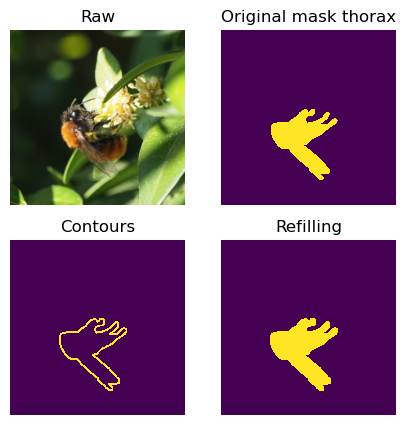
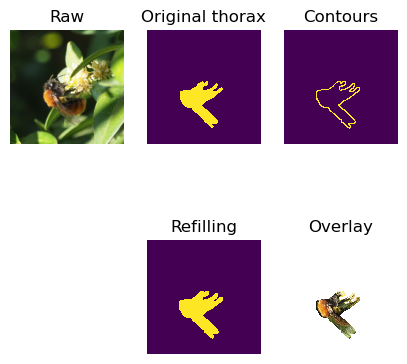
Crop + mask images and store them to separate folders.

diff --git a/beexplainable/preprocessing/parsers_deprecated.py b/beexplainable/preprocessing/parsers_deprecated.py
@@ -30,22 +30,36 @@ def parse_image(file_id: str, img_lookup, img_w: int, img_h: int, root: str = '.
 
     return img
 
-def parse_image_bbox(img_dict, bbox_dict, src, target):
-    count = 0
-    for file_id in img_dict:
-        filename = img_dict[file_id]
-        img = tf.io.read_file(src + filename)
-        img = tf.io.decode_jpeg(img, channels=3)
-        bbox = bbox_dict[file_id]
-        img = tf.image.crop_to_bounding_box(img, offset_height=tf.cast(bbox[1], tf.int32),
-                                                 offset_width=tf.cast(bbox[0], tf.int32),
-                                                 target_height=tf.cast(bbox[3], tf.int32),
-                                                 target_width=tf.cast(bbox[2], tf.int32))
+def parse_image_bbox(file_id: str, img_lookup, bbox_lookup, img_w: int, img_h: int, root: str = './'):
+    """Read image file, cropping it to the bounding box and resize it to `(img_w, img_h, 3)`.
 
-        tf.keras.utils.save_img(target + filename, img)
-        count += 1
-        if count > 5: break
+    :param file_id: ID of the image to read.
+    :type file_id: str
+    :param img_lookup: Lookup table assigning file ID to file name.
+    :type img_lookup: tf.lookup.StaticHashTable
+    :param bbox_lookup: Lookup table assigning filename to BBox coordinates (xmin, ymin, width, height).
+    :type bbox_lookup: tf.lookup.DenseHashTable
+    :param img_w: Image width after resizing.
+    :type img_w: int
+    :param img_h: Image height after resizing.
+    :type img_h: int
+    :param root: Root path where the image is stored. Defaults to current folder `./`.
+    :type root: str
+    :return: Decoded image.
+    :rtype: Tensor
+    """
 
+    # Retrieve file name from file ID
+    filename = img_lookup.lookup(file_id)
+    img = tf.io.read_file(root + filename)
+    img = tf.io.decode_jpeg(img, channels=3)
+    bbox = bbox_lookup.lookup(file_id) # get coords. from filename
+    # Note: the cropping function needs bbox coords as integers in order to manipulate the image on pixel level (also integers)
+    img = tf.image.crop_to_bounding_box(img, offset_height = tf.cast(bbox[1], tf.int32), offset_width = tf.cast(bbox[0], tf.int32),
+                                             target_height = tf.cast(bbox[3], tf.int32), target_width = tf.cast(bbox[2], tf.int32))
+    img = tf.image.resize(img, [img_w, img_h])
+
+    return img
 
 def overlay_mask(img, mask, background_col: List[int] = np.array([255, 255, 255], dtype = np.uint8)):
     """Overlay binary mask over original image. Pixels not belonging to mask are colored differently.

diff --git a/scripts/test_contours.py b/scripts/test_contours.py
@@ -6,11 +6,13 @@ sys.path.insert(1, '../beexplainable')
 sys.path.insert(2, '../label_studio_converter')
 
 import numpy as np
+import tensorflow as tf
 from PIL import Image
 import cv2 as cv
 import matplotlib.pyplot as plt
 from beexplainable.utils import metafile_readers as mr
 from beexplainable.utils import annot_computers as ac
+from beexplainable.preprocessing import parsers_deprecated as ps
 
 # Pick a file example, and part ID
 file_id, part_id = '500', '2'
@@ -50,8 +52,12 @@ edges_cv = cv.drawContours(blank, # destination image (NOT source bin_mask!)
 refilled = cv.drawContours(blank, contours, -1, color=(255, 255, 255),
                            thickness=-1)//255 # neg. thickness to fill the shape
 
+# Overlay mask on original image and cover up background pixels
+overlay = np.copy(img)
+overlay[ refilled == 0 ] = np.array([255, 255, 255], dtype = np.uint8)
+
 # Plot results
-rows, cols = 2, 2
+rows, cols = 2, 3
 plt.figure(figsize = (5, 5))
 plt.subplot(rows, cols, 1)
 plt.imshow(img)
@@ -60,7 +66,7 @@ plt.axis('off')
 
 plt.subplot(rows, cols, 2)
 plt.imshow(bin_mask, interpolation='none')
-plt.title('Original mask thorax')
+plt.title('Original thorax')
 plt.axis('off')
 
 plt.subplot(rows, cols, 3)
@@ -68,9 +74,16 @@ plt.imshow(edges_cv, interpolation='none')
 plt.title('Contours')
 plt.axis('off')
 
-plt.subplot(rows, cols, 4)
+plt.subplot(rows, cols, 5)
 plt.imshow(refilled, interpolation='none')
 plt.title('Refilling')
+plt.axis('off')
+
+plt.subplot(rows, cols, 6)
+swap_bin = 255*(tf.ones_like(refilled)-refilled)
+swap_back = tf.stack((swap_bin,)*3, axis = -1)
+plt.imshow(img * tf.stack((refilled,) * 3, axis = -1) + swap_back, interpolation='none')
+plt.title('Overlay')
 plt.axis('off')
 
 plt.savefig('../figures/masks_bboxes/Edges_' + indiv_name + '.png', bbox_inches='tight')

diff --git a/scripts/crop_mask_images.py b/scripts/crop_mask_images.py
@@ -1,0 +1,35 @@
+"""Script to generate additional datasets of bbox-cropped images, masked ones and both"""
+
+import sys
+# Insert libraries paths from 1 on; 0 is the script path
+sys.path.insert(1, '../beexplainable')
+sys.path.insert(2, '../label_studio_converter')
+
+import numpy as np
+from beexplainable.utils import annot_computers as ac # an extra prefix beexplainable. may be needed
+from beexplainable.utils import metafile_readers as mr
+from beexplainable.modelling import classifiers as cls
+from beexplainable.preprocessing import parsers as ps
+
+# Metafile paths
+BEES_PATH = '../data/data_lstudio/Bees_Christian/'
+BEES_PATH_BBOX = '../data/data_lstudio/Bees_Christian_bbox/'
+IMAGES_PATH = './beexplainable/metafiles/images.txt'
+W_H_PATH = './beexplainable/metafiles/widths_heights.txt'
+IMAGES_LABELS_PATH = './beexplainable/metafiles/image_class_labels.txt'
+CLASSES_PATH = './beexplainable/metafiles/classes.txt'
+MODELS_PATH = './beexplainable/models/'
+BBOX_PATH = './beexplainable/metafiles/bounding_boxes.txt'
+PART_CONTOURS = './beexplainable/metafiles/part_contours.npy'
+
+# Read images and metafiles
+img_dict  = mr.metafile_to_dict(IMAGES_PATH)
+bbox_dict = mr.bboxes_to_dict(BBOX_PATH, values_as_strings = True)
+w_h_dict = mr.w_h_to_dict(W_H_PATH)
+with open(PART_CONTOURS, "rb") as f:
+    contours = np.load(f, allow_pickle=True)
+
+### 1. Crop images to bounding boxes and store them in a separate folder
+ps.parse_image_bbox(img_dict, bbox_dict, src = BEES_PATH, target = BEES_PATH_BBOX)
+
+
